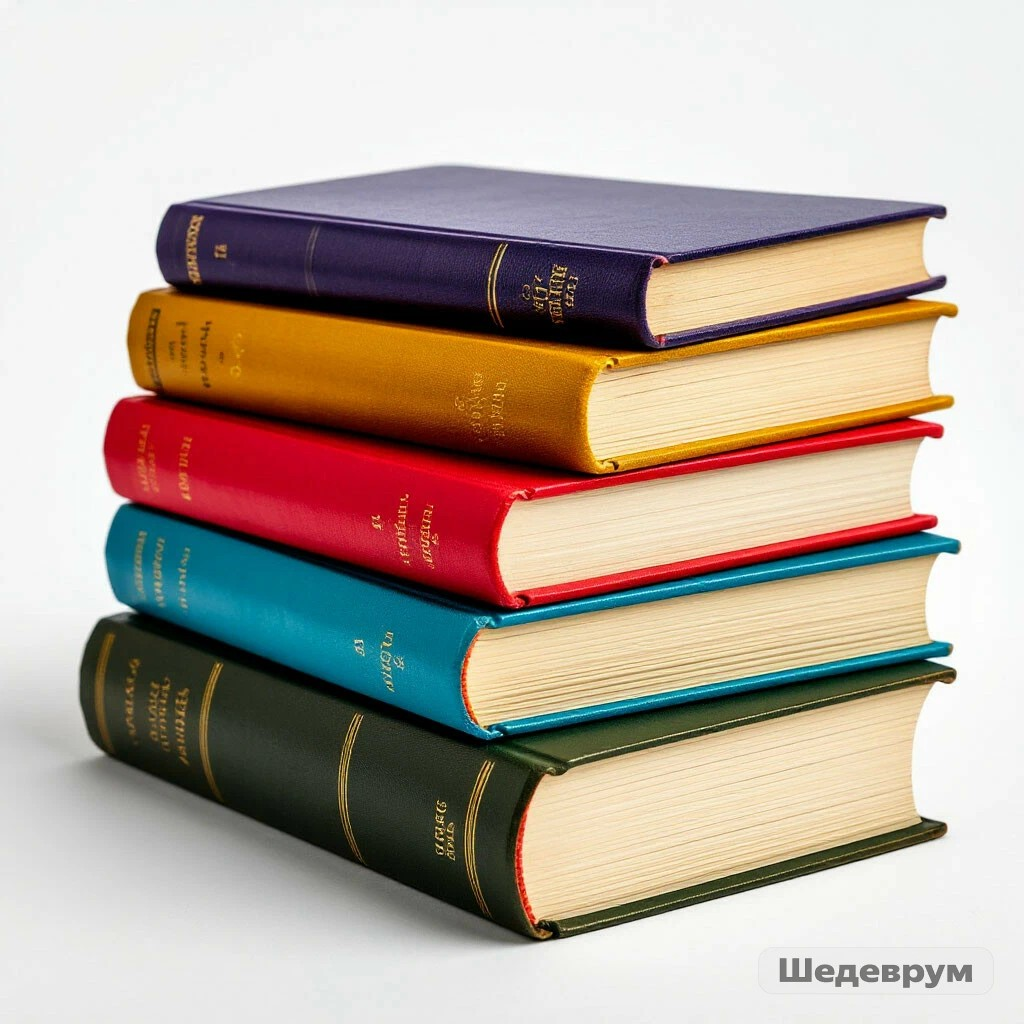
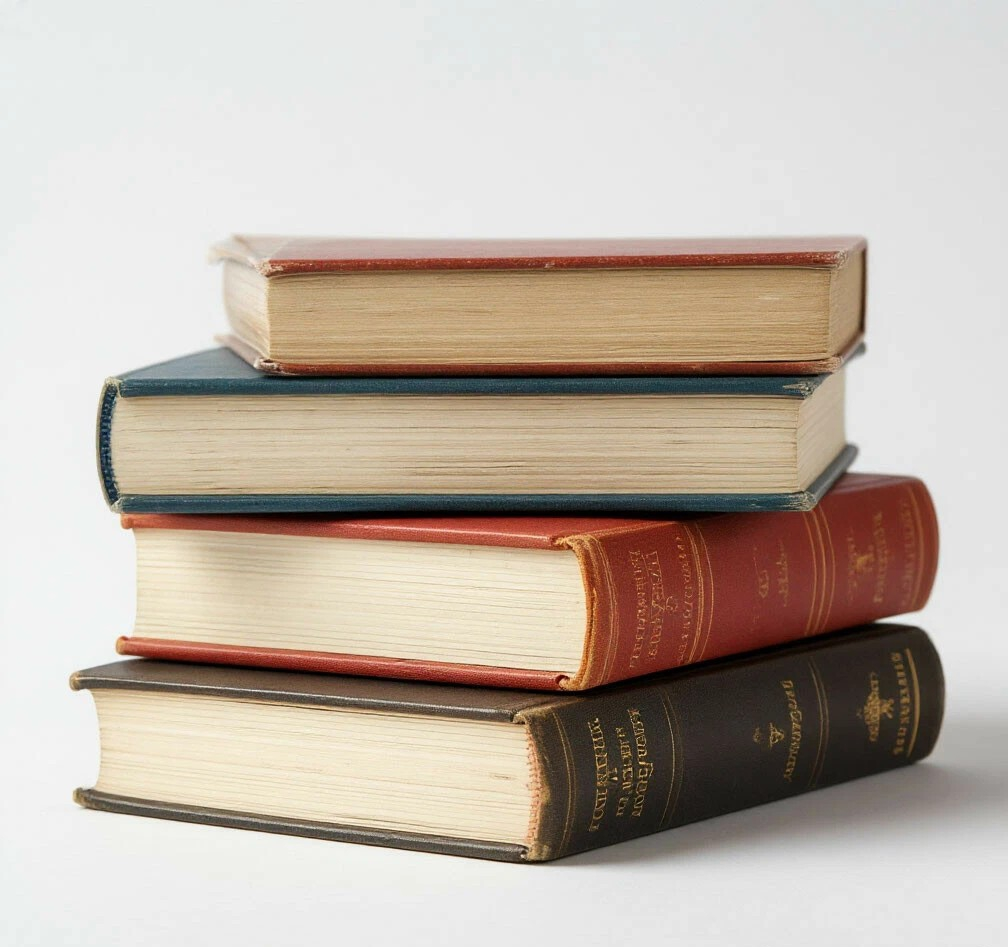
Add files via upload

diff --git a/index.html b/index.html
@@ -631,7 +631,7 @@
             <div class="hero-image-wrapper animate delay-2">
                 <div class="hero-image-bg"></div>
                 <div class="hero-image">
-                    <img src="images/hero-photo.jpg" alt="Сановбар — преподаватель языков" loading="lazy">
+                    <img src="images/hero2.jpg" alt="Сановбар — преподаватель языков" loading="lazy">
                 </div>
             </div>
         </div>
@@ -641,9 +641,9 @@
     <section class="section about" id="about">
         <div class="container about-inner">
             <div class="about-image reveal">
-                <img src="images/hero-photo.jpg" alt="Сановбар — о преподавателе" loading="lazy">
+                <img src="images/hero1.jpg" alt="Сановбар — о преподавателе" loading="lazy">
                 <div class="about-image-badge">
-                    <div class="about-image-badge-icon">&#11088;</div>
+                 
                     <div class="about-image-badge-text">
                  
                     </div>
@@ -1234,7 +1234,7 @@
             <div class="footer-inner">
                 <div class="footer-brand">
                     <div class="footer-logo">
-                        <div class="footer-logo-icon"><img src="book.jpg" alt="Fluentica"></div>
+                        <div class="footer-logo-icon"><img src="images/book.jpg" alt="Fluentica"></div>
                         <span>Fluentica</span>
                     </div>
                     <p class="footer-desc">
